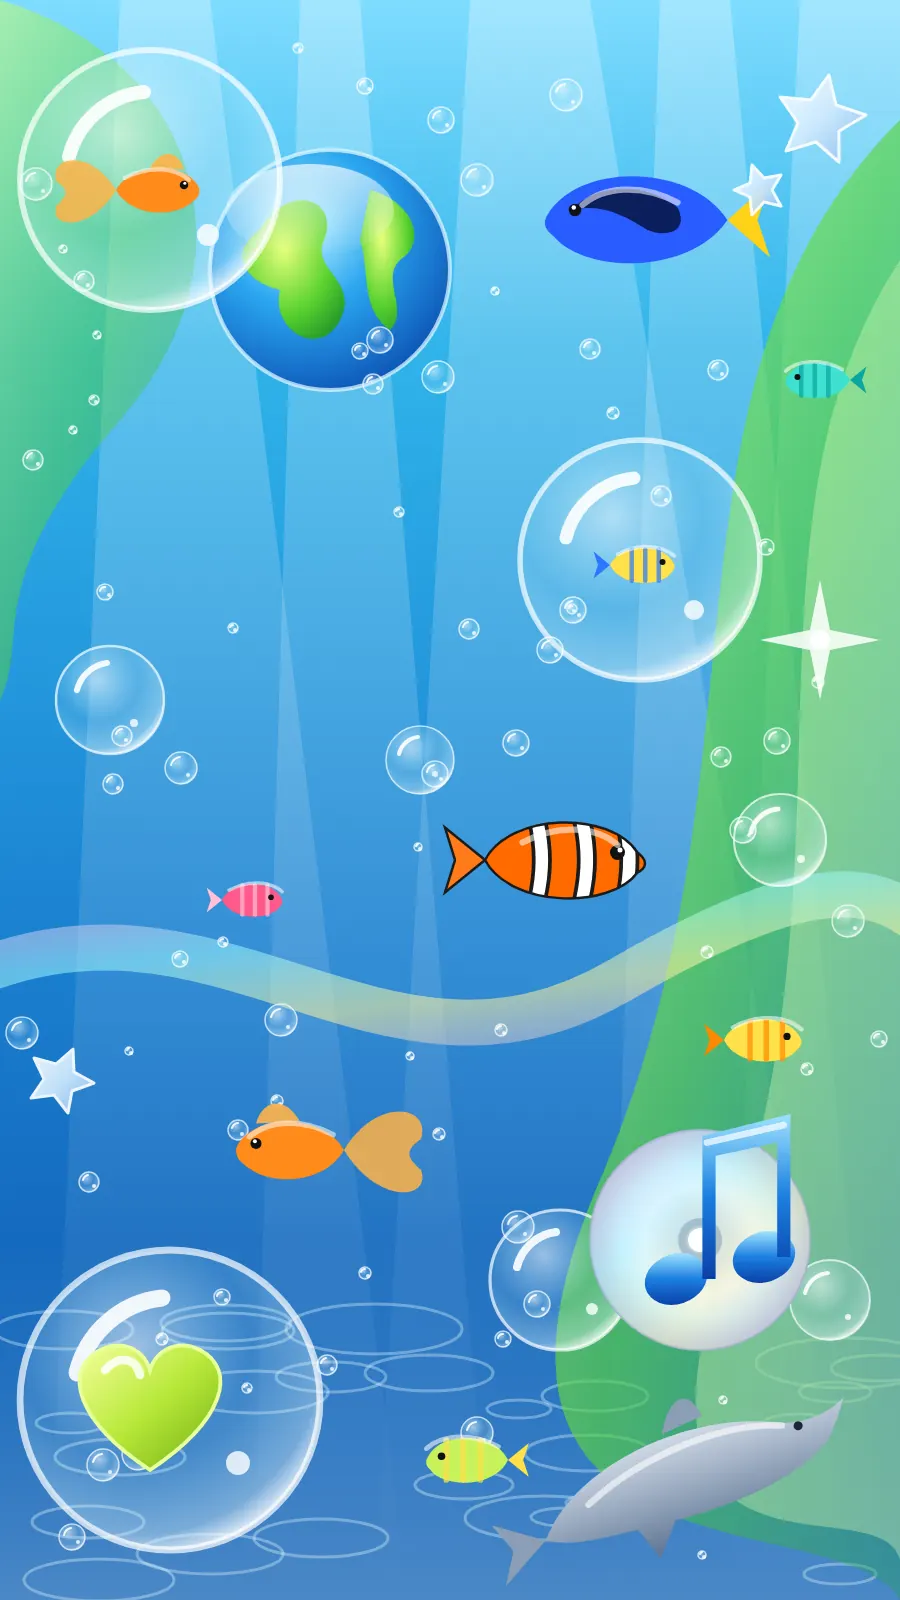
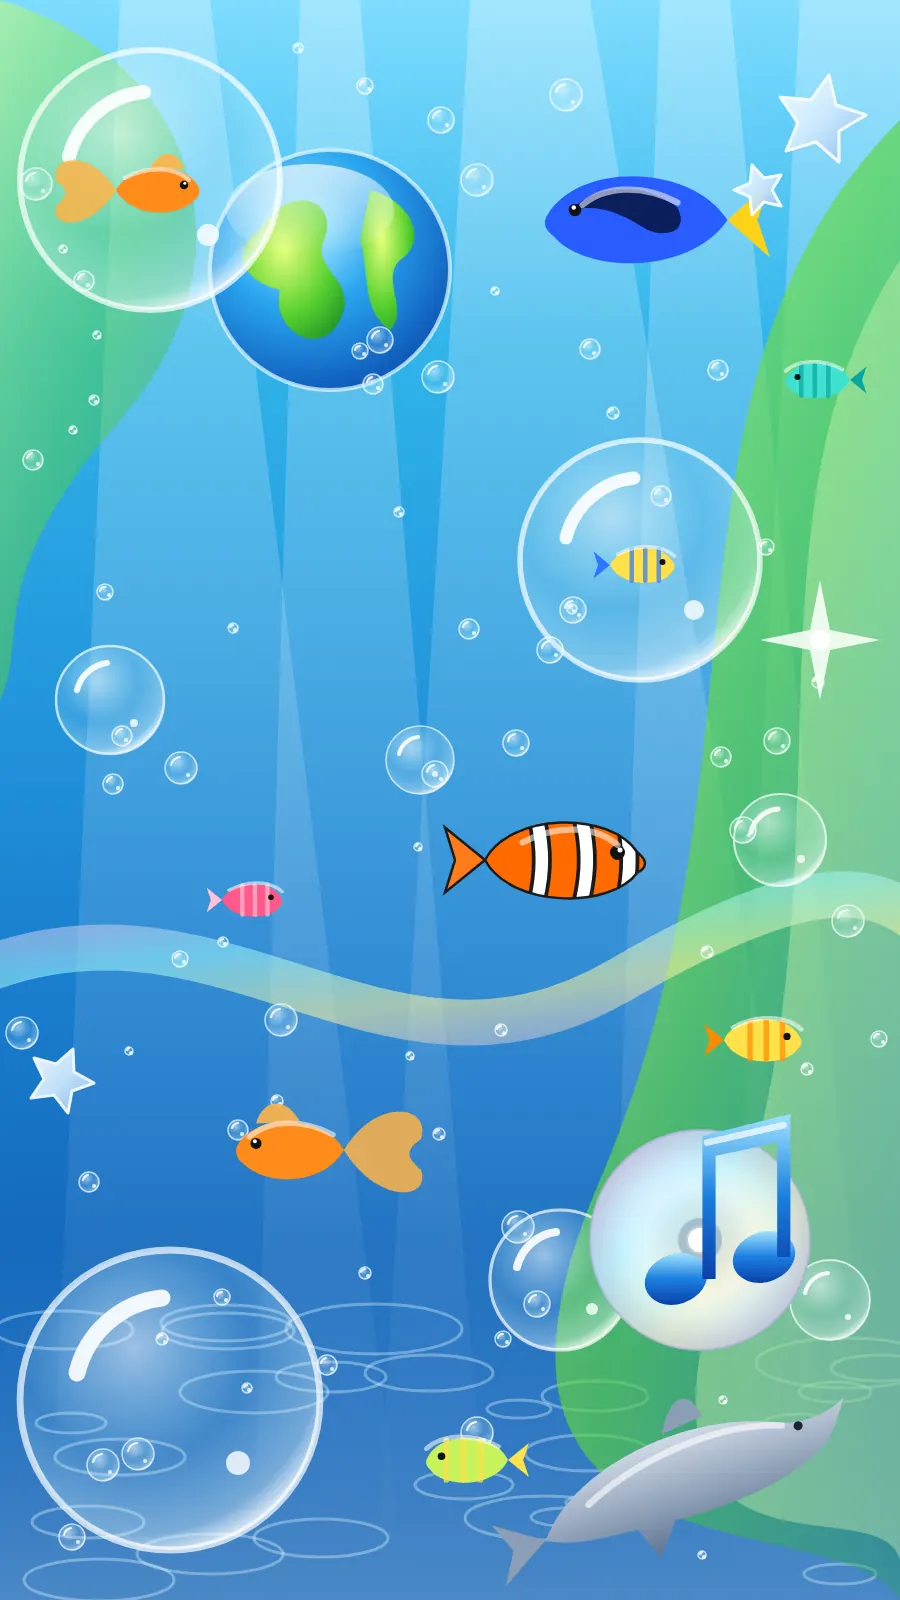
Dream skin picture: the green heart taken out
Claude-Session: https://claude.ai/code/session_0185XAghwyy8xncPn2KTsbNd

Changed region(s): [[0.0622, 0.8125, 0.2489, 0.9375]]

diff --git a/index.html b/index.html
@@ -2,7 +2,7 @@
 <html lang="en">
 <head>
 <meta charset="utf-8">
-<meta name="pbd-version" content="2026-11-16T11:34:42Z">
+<meta name="pbd-version" content="2026-11-16T11:35:21Z">
 <meta name="viewport" content="width=device-width, initial-scale=1">
 <title>Feel Good Inc. FM</title>
 <link rel="icon" type="image/png" href="icon.png">

diff --git a/tools/aqua-art.py b/tools/aqua-art.py
@@ -96,8 +96,6 @@ fish(250, 900, 0.7, '#ff5a8a', '#ffc0d8', 'small')
 fish(470, 1460, 0.95, '#c6f25a', '#ffe14a', 'small', flip=True)
 # a dolphin
 o.append('<g transform="translate(690 1480) rotate(-18) scale(1.3)"><path d="M-120 10 C -80 -40, 20 -50, 80 -20 C 100 -14, 118 -16, 132 -24 C 124 -12, 118 -4, 112 2 C 90 20, 40 30, -20 26 L -40 50 L -50 24 C -80 22, -104 20, -120 10 Z" fill="url(#dol)"/><path d="M-10 -40 C 4 -66, 20 -70, 24 -44 Z" fill="#8b9db5"/><path d="M-120 10 L -156 -14 L -146 10 L -160 34 Z" fill="#8b9db5"/><circle cx="92" cy="-14" r="3.5" fill="#1b2333"/><path d="M-80 -6 C -30 -30, 40 -34, 80 -18" fill="none" stroke="#fff" stroke-opacity=".6" stroke-width="5" stroke-linecap="round"/></g>')
-# a glossy lime heart
-o.append('<g transform="translate(150 1420) scale(1.25)"><path d="M0 40 C -60 0, -70 -40, -40 -56 C -20 -66, -4 -54, 0 -40 C 4 -54, 20 -66, 40 -56 C 70 -40, 60 0, 0 40 Z" fill="url(#heart)" stroke="#e9ff9a" stroke-width="3"/><path d="M-36 -40 C -24 -54, -10 -48, -8 -36" fill="none" stroke="#fff" stroke-width="7" stroke-linecap="round" opacity=".85"/></g>')
 # glass stars
 def star(cx, cy, r, rot=0):
     pts = []

diff --git a/docs/SPEC.md b/docs/SPEC.md
@@ -130,8 +130,8 @@ work / 5 min break, with a soft chime). Her own stations can be added as before.
 
 - **The dream skin** (16 November 2026): while Homework mode is on, the radio wears a dreamcore aqua / Frutiger Aero skin,
   like Windows XP's crystal look: an underwater scene (`aqua.webp`, about 60 KB, an original drawing made by
-  `tools/aqua-art.py`, no logos) with bubbles, tropical fish, a glossy globe, a dolphin, glass stars, a lime heart and a
-  shiny CD, behind glossy glass panels and bubble buttons (`body.dream` in index.html). No blur, no animation; the
+  `tools/aqua-art.py`, no logos) with bubbles, tropical fish, a glossy globe, a dolphin, glass stars and a
+  shiny CD (the green heart was taken out), behind glossy glass panels and bubble buttons (`body.dream` in index.html). No blur, no animation; the
   picture is only fetched in Homework mode. It goes back to the neon skin when Homework mode ends.
 - **Aquacore station** (Homework): dreamy underwater music, 14 long tracks with exact videos (Aquatic Ambience, Dire,
   Dire Docks, Endless Ocean, Ecco the Dolphin, Frutiger Aero mixes…).
